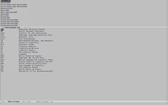
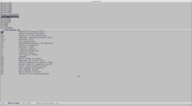
Update screen shots.

diff --git a/index.html b/index.html
@@ -69,8 +69,8 @@
 <li>Keywords can be stored in a file to aid in maintaining uniformity in keywords within and across <code>.bib</code> files.</li>
 </ul>
 <h2 id="screenshots">Screenshots</h2>
-<p>Visually, Ebib is not very spectacular. But to get an impression of what it looks like, you can look at the following three screenshots. The first shows Ebib's standard lay-out, with the list of entry keys in the top window and the fields of the currently highlighted entry in the bottom window. (The field values displayed in a lighter colour come from the cross-referenced entry.) In the second image, the string 'Reuland' is highlighted as the result of a text search. The third screenshot shows the strings buffer, where you can edit the <code>@string</code> definitions in the database.</p>
-<p><a href="images/Main-view.png"> <img style="width:160px;height:100px" src="images/tn-Main-view.png" alt="screenshot 1" /></a> <a href="images/Search-view.png"> <img style="width:160px;height:100px" src="images/tn-Search-view.png" alt="screenshot 1" /></a> <a href="images/Strings-buffer.png"> <img style="width:160px;height:100px" src="images/tn-Strings-buffer.png" alt="screenshot 2" /></a></p>
+<p>Visually, Ebib is not very spectacular. But to get an impression of what it looks like, you can look at the following three screenshots. The first shows Ebib's standard lay-out, with the list of entry keys in the top window and the fields of the currently highlighted entry in the bottom window. In the second image, which uses the alternative vertical layout, the string 'Reuland' is highlighted as the result of a text search. The field values displayed in a lighter colour come from the cross-referenced entry. The third screenshot shows the strings buffer, where you can edit the <code>@string</code> definitions in the database.</p>
+<p><a href="images/Main-view.png"> <img style="width:192px;height:106px" src="images/tn-Main-view.png" alt="screenshot 1" /></a> <a href="images/Search-view.png"> <img style="width:192px;height:106px" src="images/tn-Search-view.png" alt="screenshot 1" /></a> <a href="images/Strings-buffer.png"> <img style="width:192px;height:106px" src="images/tn-Strings-buffer.png" alt="screenshot 2" /></a></p>
 <h2 id="manual">Manual</h2>
 <p>The complete user manual for Ebib is available in html format <a href="ebib-manual.html">here</a>.</p>
 <h2 id="installation">Installation</h2>
@@ -80,7 +80,7 @@
 <h2 id="support">Support</h2>
 <p>The quickest way to ask questions or report issues is to use <a href="https://github.com/joostkremers/ebib/issues?state=open">Github issue tracker</a>.</p>
 <div class="bottom-dweller">
-<p>Joost Kremers (<em>last modified:</em> <em>12 Nov 2014</em>)</p>
+<p>Joost Kremers (<em>last modified:</em> <em>07 Dec 2014</em>)</p>
 </div>
 </article>
 </body>
